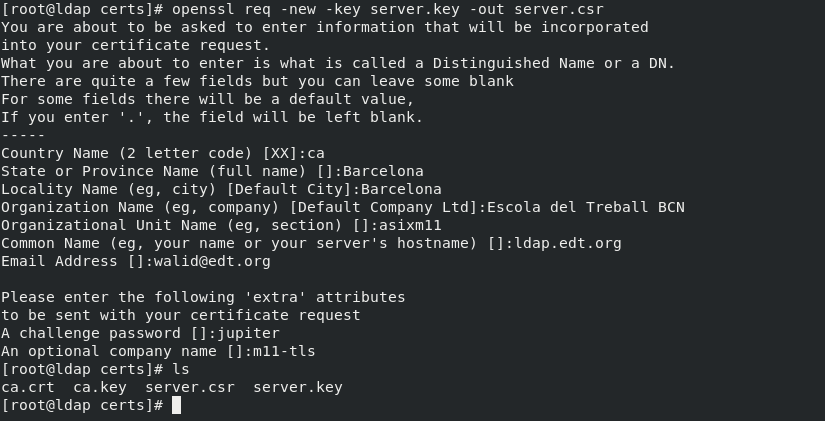
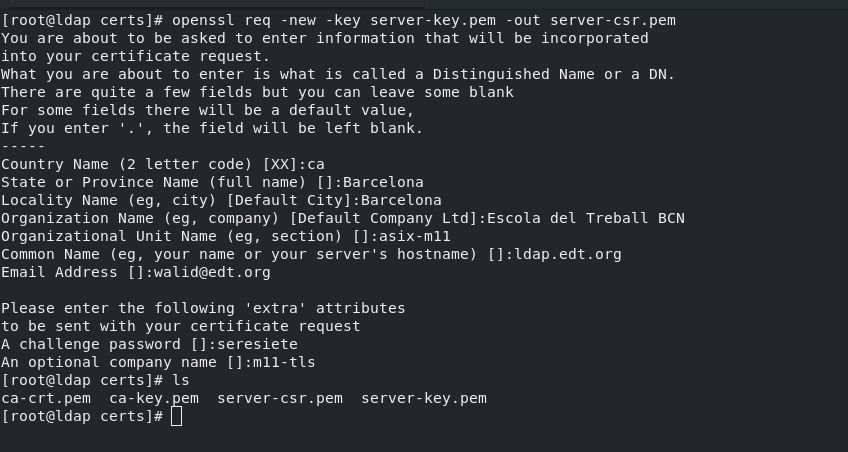
tls

Changed region(s): [[0.0, 0.0, 0.8182, 0.9881]]

diff --git a/ldapserver19:tls/README.md b/ldapserver19:tls/README.md
@@ -6,20 +6,20 @@
 ### Pasos al server:
 1. Crear les claus necessaries pel certificat del servidor:
 ```
-[root@ldap certs]# openssl genrsa -out ca.key 1024
-[root@ldap certs]# openssl genrsa -out server.key 1024
+[root@ldap certs]# openssl genrsa -out ca-key.pem 1024
+[root@ldap certs]# openssl genrsa -out server-key.pem 1024
 ```
 ![foto1](./aux/1.png)
 
 2. Crear entitat CA propia (Veritat Absoluta):
 ```
-[root@ldap certs]# openssl req -new -x509 -nodes -sha1 -days 365 -key ca.key -out ca.crt
+[root@ldap certs]# openssl req -new -x509 -nodes -sha1 -days 365 -key ca-key.pem -out ca-crt.pem
 ```
 ![foto2](./aux/2.png)
 
 3. Creem una petició de certificat request per enviar a l'entitat certificadora CA:
 ```
-[root@ldap certs]# openssl req -new -key server.key -out server.csr
+[root@ldap certs]# openssl req -new -key server-key.pem -out server-csr.pem
 ```
 ![foto3](./aux/3.png)
 
@@ -31,7 +31,7 @@ extendedKeyUsage = serverAuth,emailProtection
 
 5. Hem de fer que l'autoritat CA signi el certificat:
 ```
-[root@ldap certs]# openssl x509 -CA ca.crt -CAkey ca.key -req -in server.csr -days 365 -sha1 -extfile ca.conf -CAcreateserial -out server.crt
+[root@ldap certs]# openssl x509 -CA ca-crt.pem -CAkey ca-key.pem -req -in server-csr.pem -days 365 -sha1 -extfile ca.conf -CAcreateserial -out server-crt.pem
 ```
 ![foto4](./aux/4.png)
 
@@ -41,9 +41,9 @@ extendedKeyUsage = serverAuth,emailProtection
 # Allow LDAPv2 client connections. This is NOT the default.
 allow bind_v2
 pidfile               /var/run/openldap/slapd.pid
-TLSCACertificateFile  /etc/openldap/certs/ca.crt
-TLSCertificateFile    /etc/openldap/certs/server.crt
-TLSCertificateKeyFile /etc/openldap/certs/server.key
+TLSCACertificateFile  /etc/openldap/certs/ca-crt.pem
+TLSCertificateFile    /etc/openldap/certs/server-crt.pem
+TLSCertificateKeyFile /etc/openldap/certs/server-key.pem
 TLSVerifyClient       never
 TLSCipherSuite        HIGH:MEDIUM:LOW:+SSLv2
 [...]
@@ -55,7 +55,7 @@ BASE dc=edt,dc=org
 URI ldaps://ldap.edt.org
 
 #TLS_CACERTDIR  /etc/openldap/certs  #cal comentar aquesta linia
-TLS_CACERT /etc/openldap/certs/ca.crtz
+TLS_CACERT /etc/openldap/certs/ca-crt.pem
 ```
 
 8. Finalment, a l'hora de engegar el servidor ldap, hem d'utilitzar **-h** per a que faci diferents bind depenent del mètode que s'utilizi:
@@ -71,7 +71,7 @@ TLS_CACERT /etc/openldap/certs/ca.crtz
 BASE    dc=edt,dc=org
 URI     ldaps://172.17.0.2 #aqui posem la ip/servername del servidor ldap
 
-TLS_CACERT /var/tmp/certs/ca.crt  #ruta local on tinguem el certificat
+TLS_CACERT /var/tmp/certs/ca-crt.pem  #ruta local on tinguem el certificat
 TLS_REQCERT allow
 ```
 
